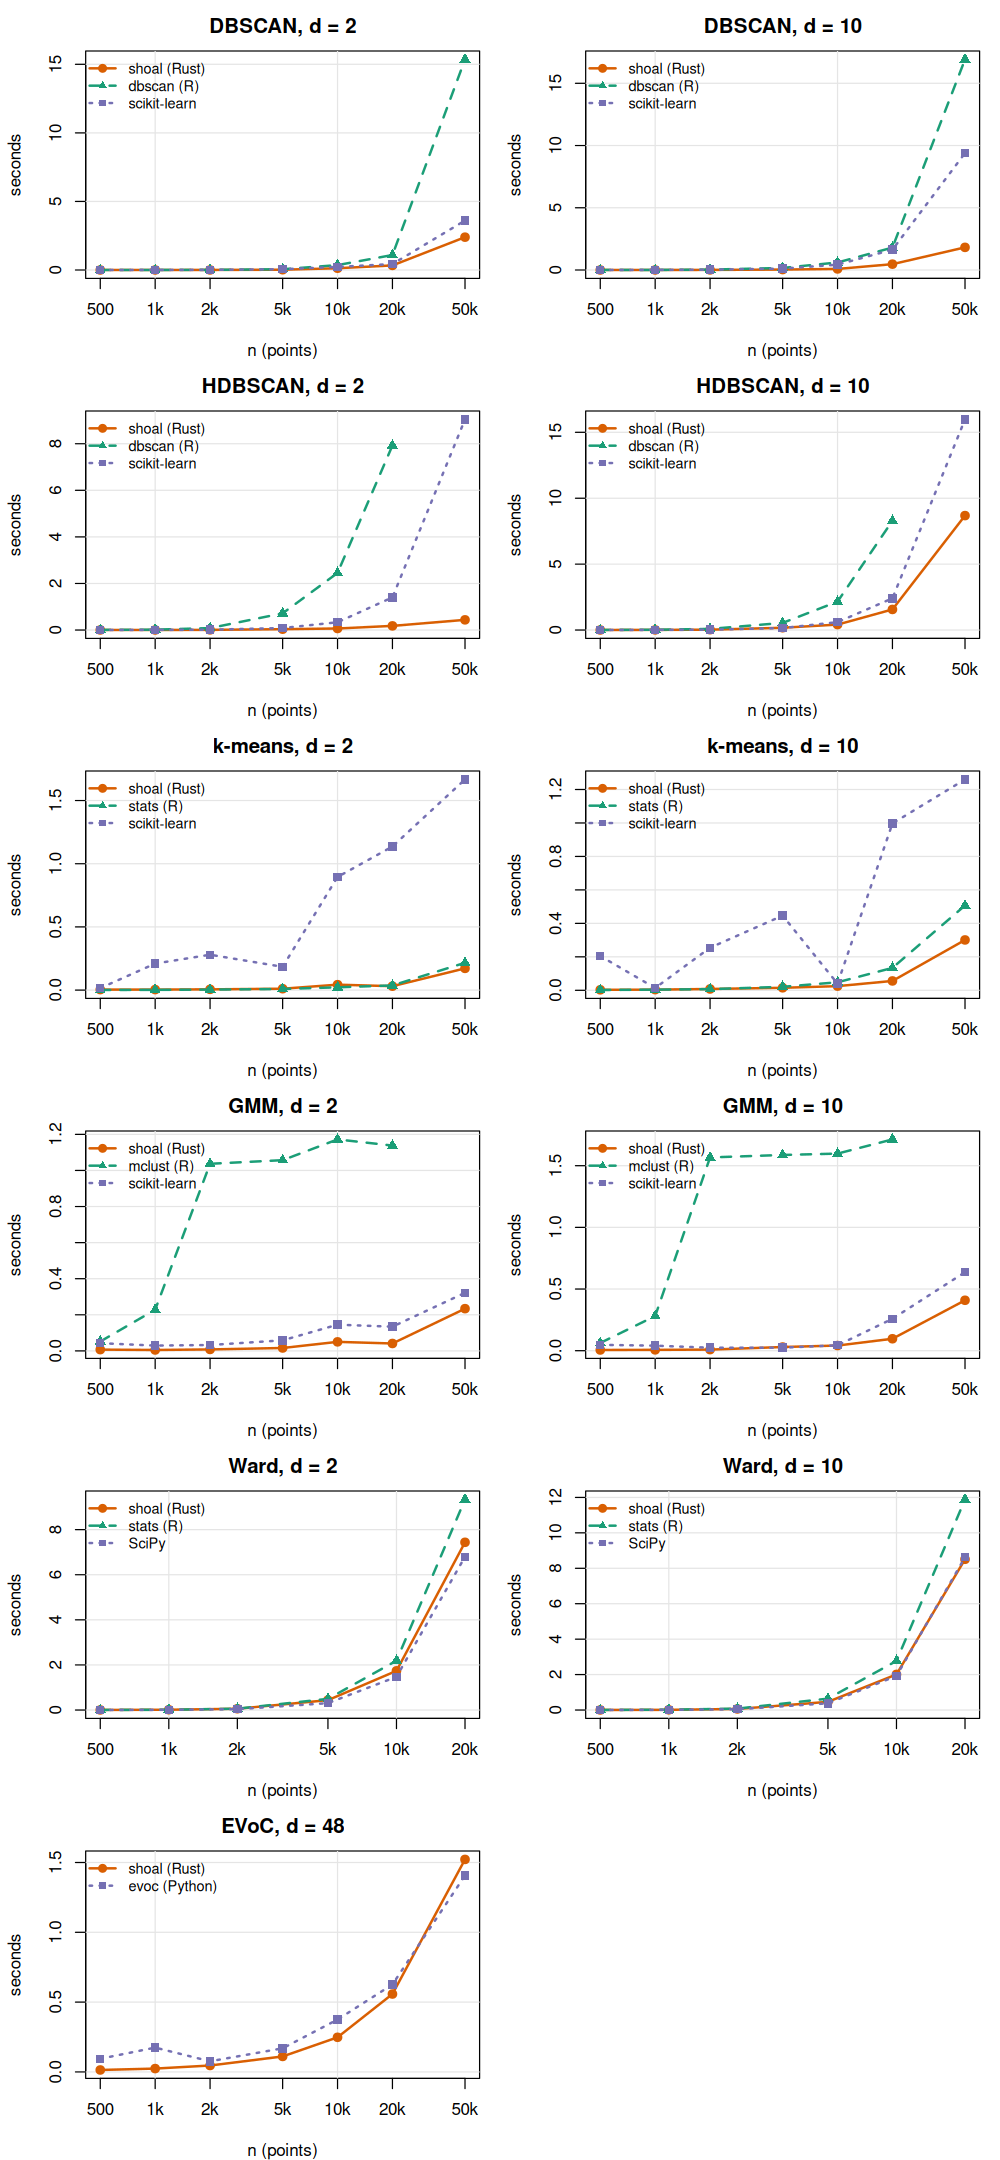
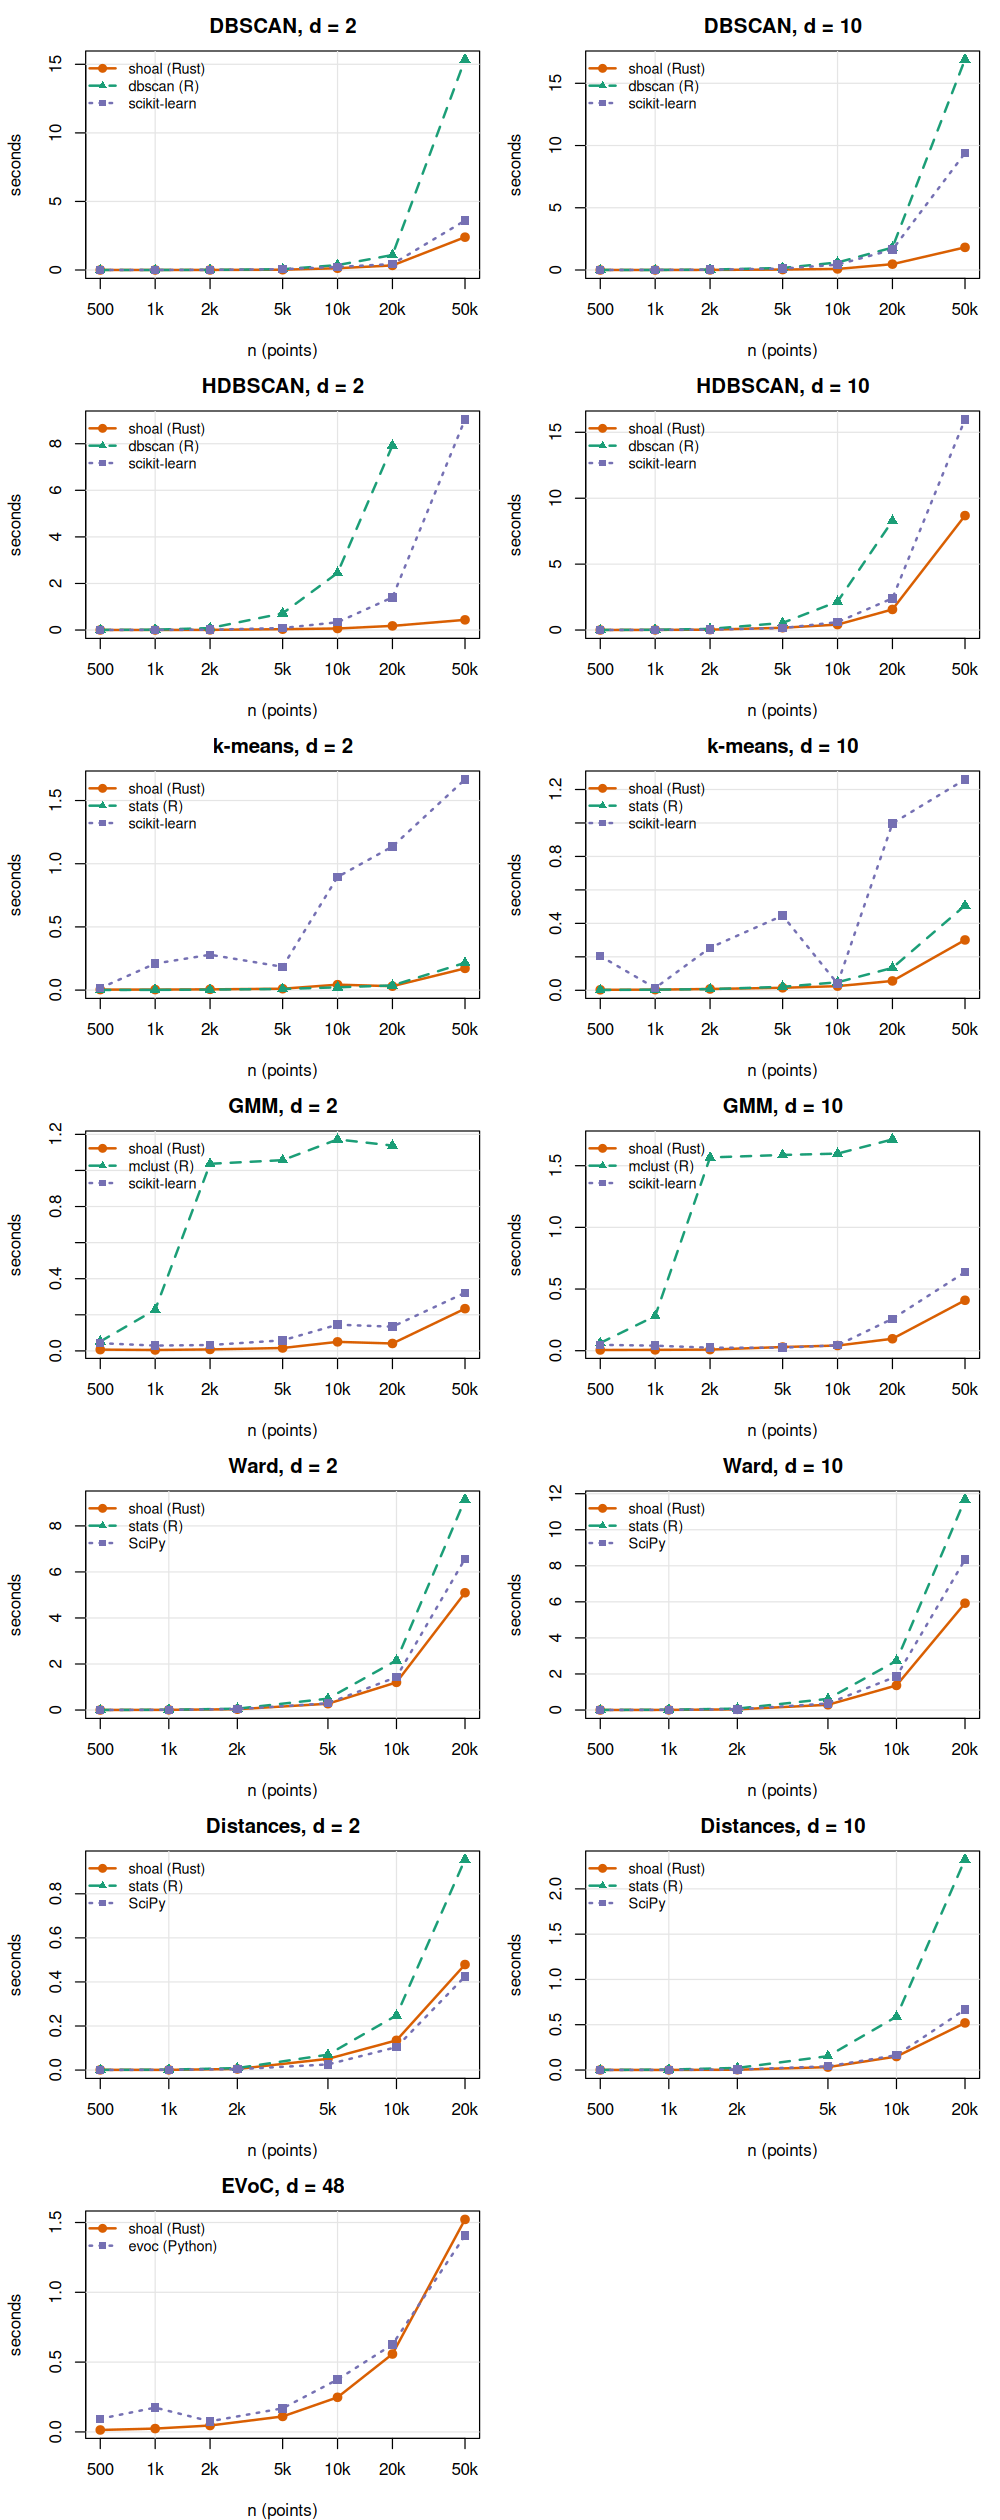
Benchmark distance computation; refresh the Ward results
A Distances row joins the suite: shoal_dist() against stats::dist() and
SciPy's pdist(), to 20,000 points. Ward is rerun on the new distance
kernel, which it depends on, and the README summarises both.

diff --git a/bench/bench_sklearn.py b/bench/bench_sklearn.py
@@ -32,6 +32,7 @@ from pathlib import Path
 
 import numpy as np
 from scipy.cluster.hierarchy import linkage
+from scipy.spatial.distance import pdist
 from sklearn.cluster import DBSCAN, HDBSCAN, KMeans
 from sklearn.mixture import GaussianMixture
 
@@ -78,6 +79,8 @@ BENCHMARKS = [
                                max_iter=100).fit_predict(x), np.inf),
     ("Ward", "blobs", "scipy",
      lambda x: linkage(x, method="ward"), 20000),
+    ("Distances", "blobs", "scipy",
+     lambda x: pdist(x), 20000),
     ("EVoC", "emb", "evoc", evoc_fit, np.inf),
 ]
 

diff --git a/README.md b/README.md
@@ -376,11 +376,16 @@ What the panels show, at 50,000 points unless noted:
 - **Gaussian mixture**: 20 to 170 times faster than mclust, which fits a
   hierarchical initialisation first, and level with scikit-learn from
   about 5,000 points, having been several times faster below that.
-- **Ward**: 1.3 to 1.4 times faster than base R and level with SciPy,
-  which edges it in two dimensions. All three run the same
-  nearest-neighbour-chain algorithm, so the differences are in computing
-  the distances that feed it. Runs stop at 20,000 points, where the
-  distance matrix alone is 1.6 GB.
+- **Ward**: 1.8 to 2 times faster than base R and 1.3 to 1.4 times
+  faster than SciPy. All three run the same nearest-neighbour-chain
+  algorithm, so the differences are in computing the distances that feed
+  it. Runs stop at 20,000 points, where the distance matrix alone is 1.6
+  GB.
+- **Distances**: `shoal_dist()` is 2 times faster than `stats::dist()`
+  in 2 dimensions and 4.5 times in 10, and level with SciPy’s `pdist()`,
+  which edges it in 2 dimensions where the work is almost all memory
+  traffic. The result is written straight into the R vector, one pass,
+  in parallel.
 - **EVoC**: level with the reference implementation from about 20,000
   points, and several times faster below that, where the reference’s
   compiled kernels have not amortised. The reference here runs on 20
